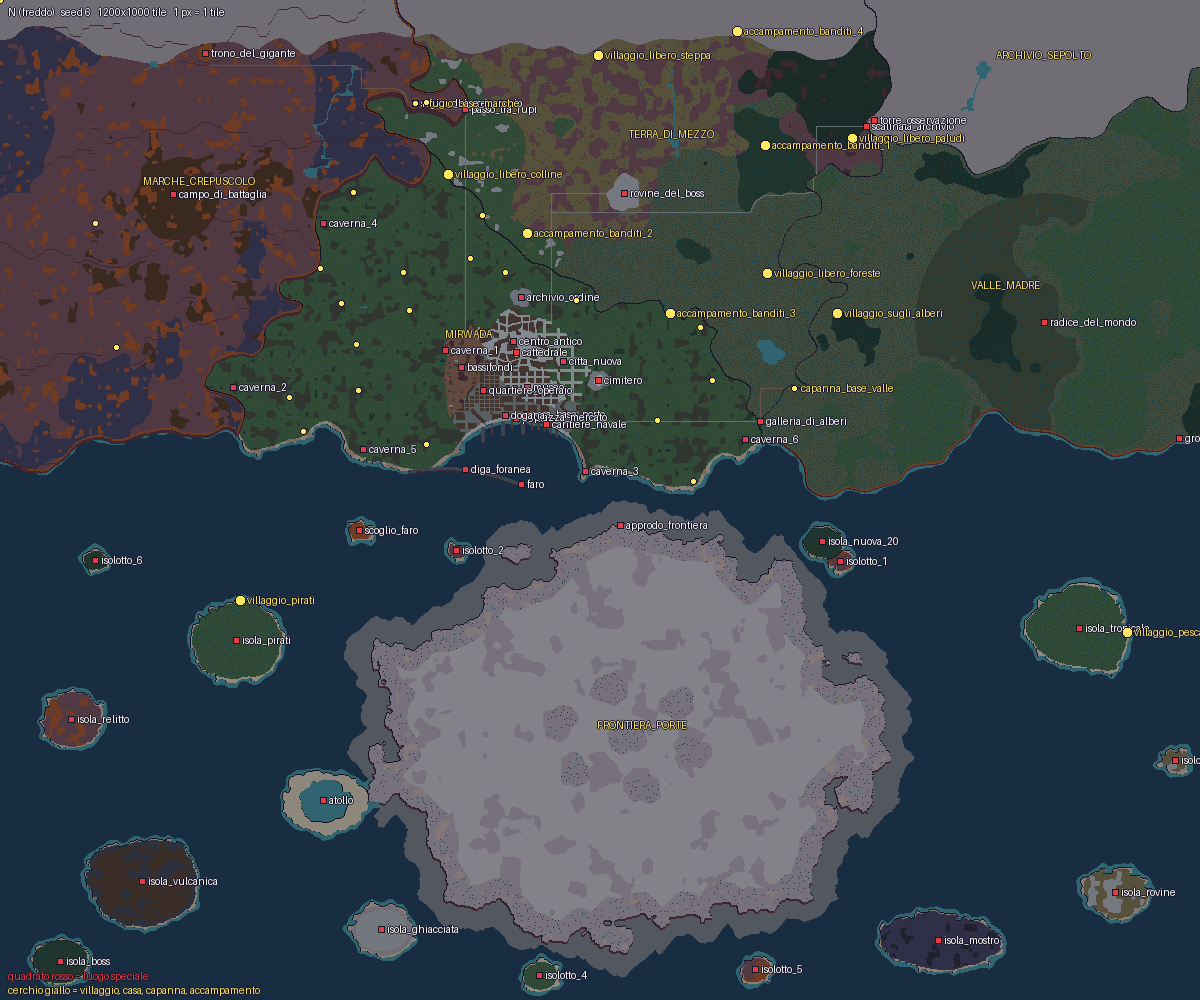
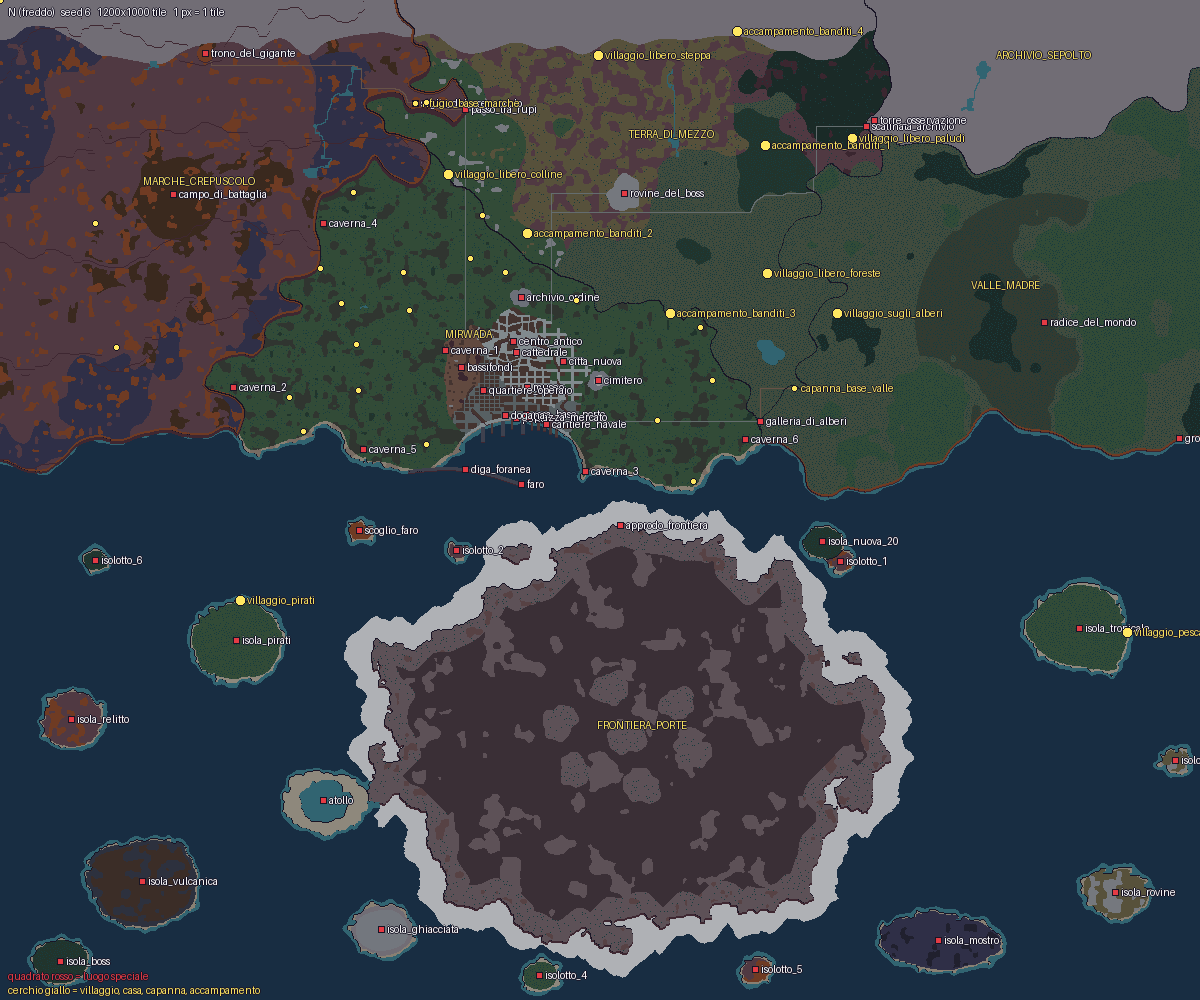
Modalita' cupa, story 3: Frontiera invertita come la concept (isole scure, nebbia chiara)
Claude-Session: https://claude.ai/code/session_014ycMSkFAn8ixUvbSfrqtAR

Changed region(s): [[0.2775, 0.496, 0.7708, 0.992]]

diff --git a/tools/art/forge3d/terrain.py b/tools/art/forge3d/terrain.py
@@ -108,14 +108,14 @@ TERRAINS = {
     # --- Archivio, Frontiera, isole (US-8B11d). Pastelli della Frontiera = colori extra (Endesga non ha il lilla) ---
     # vuoto di nebbia attorno alla Frontiera (decisione 2026-10-20): grigio freddo, piu' scuro della terra lilla e due
     # livelli sotto; non si calpesta (water_mask). Il livello piu' basso: tutto il resto gli si disegna sopra
-    "vuoto": dict(macro=8, ramp=["slate", "#76839c", "grey", "#a9b3c6"], period=3, dither=0.6, detail="fog", rim=None,
+    "vuoto": dict(macro=8, ramp=["slate", "#76839c", "grey", "#a9b3c6"], ramp_cupo=["#939398", "#a6a9ad", "#babcbf", "#c8cbcf"], period=3, dither=0.6, detail="fog", rim=None,
                   level=-1, contrast=0.35, anim=4),
-    "nebbia": dict(macro=8, ramp=["#b8b0c8", "#cfc8db", "#e0dbe8", "#f0edf4"], period=3, dither=0.6, detail="fog", rim="light",
+    "nebbia": dict(macro=8, ramp=["#b8b0c8", "#cfc8db", "#e0dbe8", "#f0edf4"], ramp_cupo=["#231a20", "#3b3037", "#3b3037", "#574244"], period=3, dither=0.6, detail="fog", rim="light",
                    rimc="#f0edf4", level=0.2, contrast=0.6, anim=4),
     # sabbia corallina: crema e avorio caldi, bianco solo nei riflessi (prima 3 bianchi su 4: sembrava neve)
     "sabbia_bianca": dict(ramp=["tan", "cream", "#f3e7cf", "white"], period=4, dither=0.5, detail="dots", rim="dark",
                           rimc="tan", level=2.2, contrast=0.45),
-    "erba_lilla": dict(macro=8, ramp=["#9a7fb0", "#b9a3cc", "#cdb8dc", "#e2d4ec"], period=4, dither=0.5, detail="tufts", rim="dark",
+    "erba_lilla": dict(macro=8, ramp=["#9a7fb0", "#b9a3cc", "#cdb8dc", "#e2d4ec"], ramp_cupo=["#3b3037", "#574244", "#615961", "#737076"], period=4, dither=0.5, detail="tufts", rim="dark",
                        rimc="#9a7fb0", level=4.4, contrast=0.4),
     "cenere": dict(ramp=["ink", "slate_d", "slate", "grey"], period=4, dither=0.5, detail="dots", rim="dark", rimc="ink",
                    level=7.6, contrast=0.3),
@@ -123,7 +123,7 @@ TERRAINS = {
                     rim="dark", rimc="brown_dd", level=8.1),
     "lamiera": dict(bordo="dritto", ramp=["slate_d", "slate", "grey", "grey_l"], period=4, dither=0.3, detail="plates", rim="dark",
                     rimc="navy", level=8.15, contrast=0.4),
-    "terra_rosa": dict(ramp=["#c99a9a", "#ddb3b0", "#e8c6c1", "#f3dcd6"], period=4, dither=0.6, detail="pebbles", rim="dark",
+    "terra_rosa": dict(ramp=["#c99a9a", "#ddb3b0", "#e8c6c1", "#f3dcd6"], ramp_cupo=["#3b3037", "#574244", "#574244", "#8a8084"], period=4, dither=0.6, detail="pebbles", rim="dark",
                        rimc="#c99a9a", level=8.25, contrast=0.3),
     "lastre_rovine": dict(ramp=["teal_d", "grey", "grey_l", "cream"], period=4, dither=0.4, detail="slabs", slab=(2, 2),
                           rim="cliff", rimc="teal_d", level=8.9, contrast=0.5, varianti=8, erba=0.35, fuga="slate",
